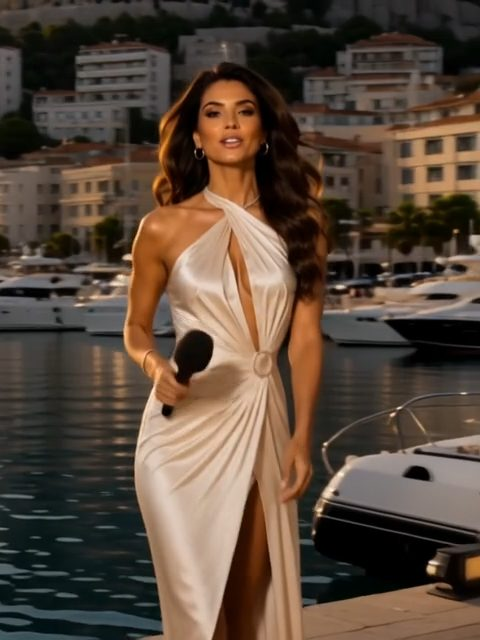
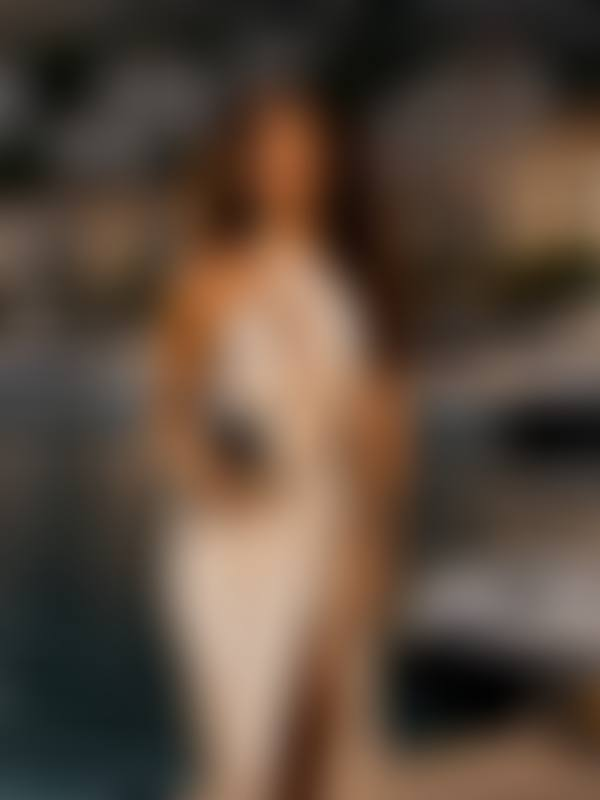
Vorschaubild verschwommen — wie in der Tagespost
Gleiche Behandlung wie der Mail-Teaser (600 px, Blur 24, JPEG 72). Macht neugierig,
und es poppt kein freizuegiges Bild ungefragt in einem fremden Chat auf.

diff --git a/app/themes/wetter/[model]/page.tsx b/app/themes/wetter/[model]/page.tsx
@@ -53,11 +53,13 @@ export async function generateMetadata(
     alternates: { canonical: `/themes/wetter/${model}` },
     // BILD für die Vorschaukarte (WhatsApp/Facebook). Bewusst eine feste Datei in /public:
     // signierte Storage-Adressen verfallen nach 24 h, dann bliebe die Karte bildlos.
-    // Motiv: Bella im weißen Kleid — dasselbe, das der Owner als Try-on-Teaser gewählt hat.
+    // Motiv: Bella im weißen Kleid — VERSCHWOMMEN, mit derselben Behandlung wie das
+    // Vorschaubild der Tagespost (600 px, Blur 24, JPEG 72): macht neugierig, ohne dass
+    // ein freizügiges Bild ungefragt in einem fremden Chat aufpoppt (Owner 28.07.2026).
     openGraph: {
       title: m.ot,
       description: m.od,
-      images: [{ url: "/wetter-og.jpg", width: 1200, height: 1600, alt: name }],
+      images: [{ url: "/wetter-og.jpg", width: 600, height: 800, alt: name }],
     },
     twitter: { card: "summary_large_image", title: m.ot, description: m.od, images: ["/wetter-og.jpg"] },
   };
